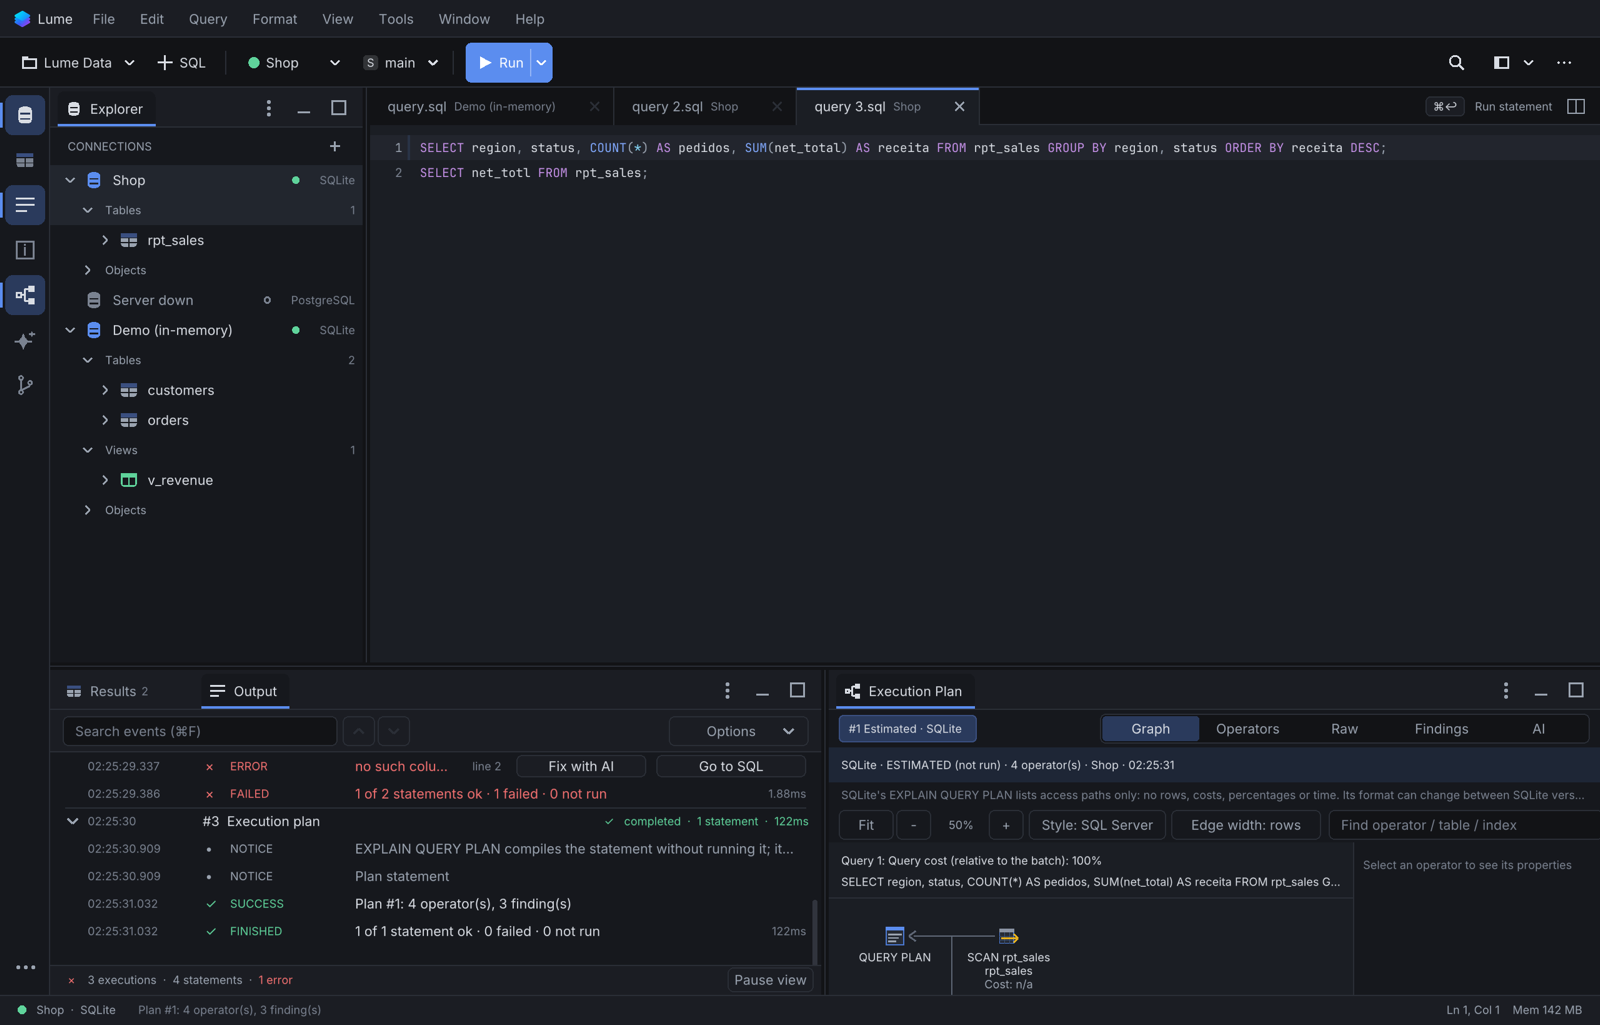
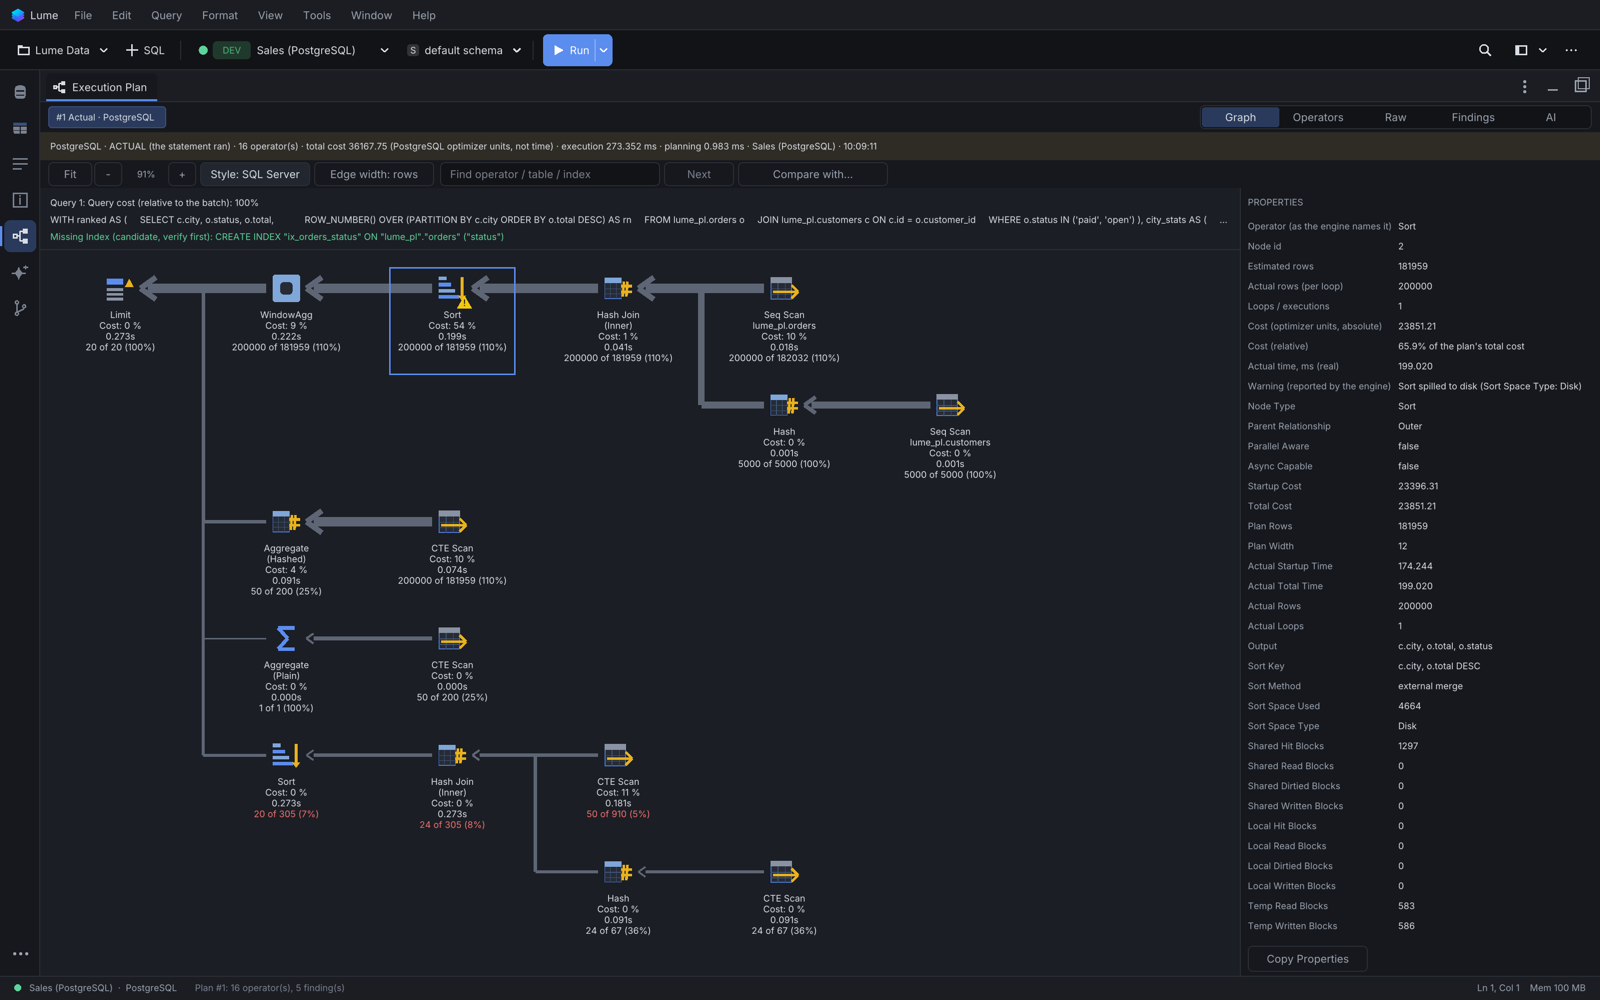
README: product overview, motivation, performance numbers and new screenshots

diff --git a/README.md b/README.md
@@ -7,7 +7,7 @@ Electron and without a runtime.
 ![Query results](docs/screenshots/query-results.png)
 
 - **Native and light.** About 2.3 MB of binary, drawn on the GPU through SDL3 (Metal, Vulkan,
-  Direct3D), HiDPI aware, idle at ~0% CPU (the loop sleeps until something happens).
+  Direct3D), HiDPI aware, about 1% CPU when idle (the loop sleeps until something happens).
 - **Six databases.** SQLite built in; PostgreSQL, Oracle, MySQL, MariaDB and SQL Server through the
   client libraries already installed on the machine, loaded at run time.
 - **AI that asks first.** Lume Intelligence is off until you turn it on. The structure of a database
@@ -63,10 +63,10 @@ world.**
 - Environments (DEV / HML / PROD) and a **Read-only in Lume** switch; choosing PROD suggests it.
 - Passwords and AI keys live in the operating system's secret store (macOS Keychain, Windows
   Credential Manager, Secret Service on Linux).
-- Schema explorer built for large catalogs (tested with 170,000 schemas and 36,000 tables): names
+- Schema explorer built for large catalogs (tested with a server of 170,009 schemas): names
   first, details on demand, server-side search, pinned schemas.
 
-![New connection](docs/screenshots/new-connection.png)
+![Schema explorer](docs/screenshots/schema-explorer.png)
 
 ### SQL editor and results
 - Query tabs bound to a connection, syntax highlighting, autocomplete from the cached schema
@@ -129,6 +129,29 @@ world.**
 - Source Control: Git status, staging by hunk, commit, pull strategies, push, with an optional AI
   review of the staged change.
 - Command palette (`⇧⌘P`), dockable panels with saved layouts, Settings (`⌘,`), keyboard first.
+
+## Performance
+
+Measured by the test suite (`tests/run_all.sh`) on an Apple M4 with 16 GB, macOS 15.5. Every number
+below has a bar the suite enforces, so a regression fails the build.
+
+| What | Result | Bar |
+|---|---|---|
+| Schema explorer on a server with **170,009 schemas** | opens one page of 100 names; no node per schema until asked | no query per listed schema |
+| Idle CPU (toolbar, panels, About open, 170k-schema tree) | **0.7 % to 1.3 %** | 2 % |
+| UI frames after toolbar / panel changes | p95 **0.66 to 0.76 ms** | 16 ms |
+| Result grid scrolling **800,000 rows** | median frame **0.45 ms** | 16 ms |
+| Memory with an 800,000-row result open | **145 MB** RSS | 150 MB |
+| Load 100,000 rows x 4 columns into the grid model | **32 ms**, 6 MB | 250 ms |
+| Sort 100,000 rows (numeric / text / two keys) | **29 / 28 / 55 ms** | 250 ms |
+| Search 400,000 cells / filter 100,000 rows | **7.7 / 16 ms** | 250 ms |
+| Export 100,000 rows to TSV / JSON | **5.9 / 20 ms** | 250 ms |
+| Assistant: index a **15,008-table** catalog | **48 ms** (reloaded from disk: 34 ms) | |
+| Assistant: pick the tables for a question among 15,008 | **55 ms** | 1.5 s |
+| Execution Output with a full log, scrolled | frame **4 ms**, 124 MB RSS | 16 ms, 150 MB |
+
+Long work never blocks the window: queries, connects, connection tests, plans, exports and AI
+requests run off the UI thread, with a cancel that reaches the server.
 
 ## Install
 
